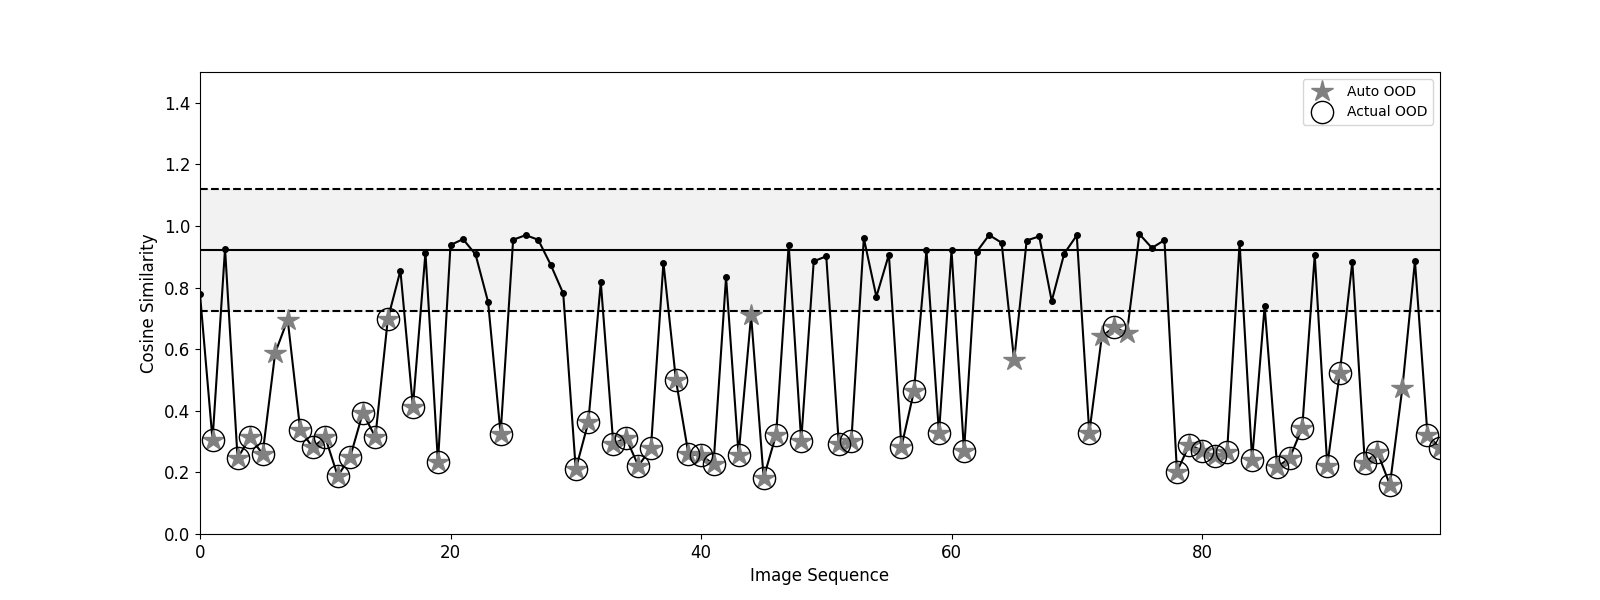
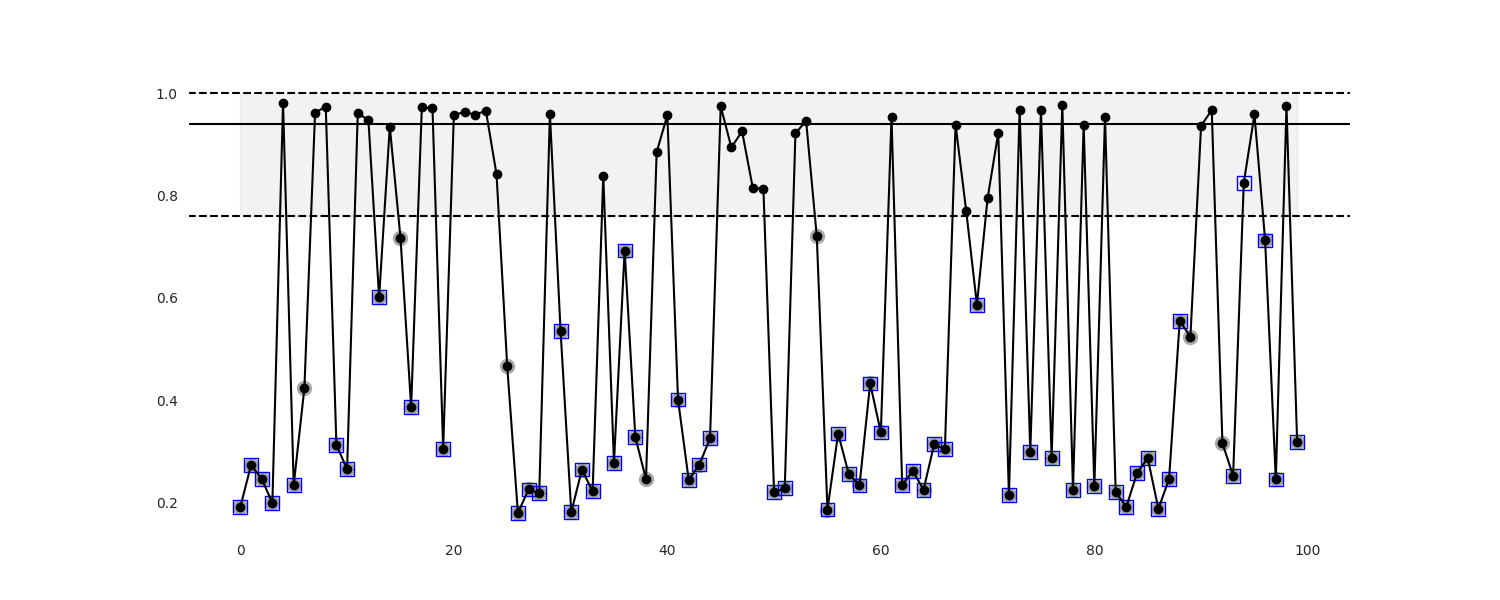
fixed feature extraction scripts; updated simulation

diff --git a/ood_detection.py b/ood_detection.py
@@ -12,41 +12,34 @@ from sklearn.metrics import confusion_matrix
 from scipy.linalg import pinv
 from tqdm import tqdm
 
+from utils import set_seed
+
 with open("cfg.json", "r") as f:
     cfg = json.load(f)
 
+# fancy metric name
+metrics = {
+    "cosine": "Cosine Similarity",
+    "mahalanobis": "Mahalanobis Distance"
+}
+
 """Apply SPC rules (per image)"""
-def apply_spc_rules(data, mean, std):
+def apply_spc_rules(data, mean, std, metric_name):
     """Detects SPC rule violations."""
-    violations = {"Rule 1": [], "Rule 2": [], "Rule 3": [], "Rule 4": [], "Rule 5": [], "Rule 6": []}
+    violations = {"Rule 1": []}
 
     for i in range(len(data)):
-        # Rule 1: Any single data point more than 3σ from the center line.
-        if abs(data[i] - mean) > 3 * std:
-            violations["Rule 1"].append(i)
-
-        """Not unit-tested implementations of SPC rules 2-6
-        # Rule 2 (adjusted): Nine points in a row on one side of the center line.
-        if i >= 8 and (all(d > mean for d in data[i-8:i+1]) or all(d < mean for d in data[i-8:i+1])):
-            violations["Rule 2"].extend(list(range(i-8, i+1)))
-
-        # Rule 3: Six (or more) points in a row, all increasing (or decreasing).
-        if i >= 5 and all(data[j] < data[j+1] for j in range(i-5, i)) or all(data[j] > data[j+1] for j in range(i-5, i)):
-            violations["Rule 3"].extend(list(range(i-5, i+1)))
-
-        # Rule 4: Fourteen (or more) points in a row, alternating up and down.
-        if i >= 13 and all((data[j] < data[j+1] and data[j+1] > data[j+2]) or
-                           (data[j] > data[j+1] and data[j+1] < data[j+2]) for j in range(i-13, i, 2)):
-            violations["Rule 4"].extend(list(range(i-13, i+1)))
-
-        # Rule 5: Two out of three points more than 2σ from the center line, same side.
-        if i >= 2 and sum(1 for j in range(i-2, i+1) if abs(data[j] - mean) > 2 * std) >= 2:
-            violations["Rule 5"].extend(list(range(i-2, i+1)))
-
-        # Rule 6: Four (or five) out of five points more than 1σ from the center line, same side.
-        if i >= 4 and sum(1 for j in range(i-4, i+1) if abs(data[j] - mean) > std) >= 4:
-            violations["Rule 6"].extend(list(range(i-4, i+1)))
-        """
+        # Rule 1: Any single data point more than 3σ in absolute distance from the center line.
+        # For cosine similarity: only check the lower bound
+        # For Mahalanobis distance: only check the upper bound 
+        if metric_name == "cosine":
+            if data[i] < (mean - 3 * std):
+                violations["Rule 1"].append(i)
+        elif metric_name == "mahalanobis":
+            if data[i] > (mean + 3 * std):
+                violations["Rule 1"].append(i)
+        else:
+            raise NotImplementedError(f"requested metric does not ahve Rule 1 implemented: {metric_name}")
 
     return violations
 
@@ -61,17 +54,32 @@ def ood_visualization(distances, mean, UCL, LCL, rule, ood_labels=None, metric_n
     plt.figure(figsize=(16, 6))
     plt.plot(distances, color='black', marker='o', markersize=4, linestyle='-')
     plt.axhline(y=mean, color='black', linestyle='-')
-    plt.axhline(y=UCL, color='black', linestyle='--')
-    plt.axhline(y=LCL, color='black', linestyle='--')
-    plt.fill_between(range(len(distances)), LCL, UCL, color='grey', alpha=0.1)
+    if metric_name == "cosine":
+        plt.axhline(y=np.clip(UCL, a_min=0.0, a_max=1.0), color='black', linestyle='--')
+        plt.axhline(y=np.clip(LCL, a_min=0.0, a_max=1.0), color='black', linestyle='--')
+        plt.fill_between(range(len(distances)), \
+                        np.clip(LCL, a_min=0.0, a_max=1.0), \
+                        np.clip(UCL, a_min=0.0, a_max=1.0), \
+                        color='grey', alpha=0.1)
+    else:
+        plt.axhline(y=UCL, color='black', linestyle='--')
+        plt.axhline(y=LCL, color='black', linestyle='--')
+        plt.fill_between(range(len(distances)), \
+                        LCL, \
+                        UCL, \
+                        color='grey', alpha=0.1)
 
-    plt.xlabel('Image Sequence', fontsize=12)
-    plt.ylabel(metric_name, fontsize=12)
-    plt.xticks(fontsize=12)
-    plt.yticks(fontsize=12)
+    # For presentation purposes, disable axes
+    # plt.xlabel('Image Sequence', fontsize=12)
+    # plt.ylabel(metrics[metric_name], fontsize=12)
+    # plt.xticks(fontsize=12)
+    # plt.yticks(fontsize=12)
+    
+    plt.xticks([])
+    plt.yticks([])
 
     # Assuming you have a function apply_spc_rules() which was not provided in your code
-    violations = apply_spc_rules(distances, mean, (UCL - mean) / 3)
+    violations = apply_spc_rules(distances, mean, (UCL - mean) / 3, metric_name)
 
     for idx in violations[rule]:
         plt.plot(idx, distances[idx], '*', color='grey', markersize=16, label='Auto OOD')
@@ -83,29 +91,29 @@ def ood_visualization(distances, mean, UCL, LCL, rule, ood_labels=None, metric_n
         """Compute confusion matirx"""
         cfm = make_confusion_matrix(violations[rule], ood_labels)
         tn, fp, fn, tp = cfm.ravel()
-        # Precision
-        if tp + fp == 0:
-            precision = np.nan
+        # Specificity
+        if tn + fp == 0:
+            specificity = np.nan
         else:
-            precision = tp / (tp + fp)
-        # Recall
+            specificity = tn / (tn + fp)
+        # Sensitivity
         if tp + fn == 0:
-            recall = np.nan
+            sensitivity = np.nan
         else:
-            recall = tp / (tp + fn)
+            sensitivity = tp / (tp + fn)
         # Acc
         acc = (tp + tn) / (tp + tn + fp + fn)
         # Print
-        print(f"Accuracy: {acc:.4f} | Precision: {precision:.4f} | Recall: {recall:.4f}")
+        print(f"Accuracy: {acc:.4f} | Specificity: {specificity:.4f} | Sensitivity: {sensitivity:.4f}")
 
     plt.xlim(0, len(distances) - 1)
-    if metric_name == "Cosine Similarity":
+    if metric_name == "cosine":
         plt.ylim(0, 1.5)
 
     # Ensure no duplicate labels in the legend
     handles, labels = plt.gca().get_legend_handles_labels()
     by_label = dict(zip(labels, handles))
-    plt.legend(by_label.values(), by_label.keys(), loc='upper right')
+    # plt.legend(by_label.values(), by_label.keys(), loc='upper right')
 
     plt.savefig(figure_path)
 
@@ -136,7 +144,7 @@ def compute_mahalanobis_distance(tr_features_, tt_features_):
     return distances
 
 """Compute control limits"""
-def compute_control_limits(tr_features, tt_features, ood_labels, metric):
+def compute_control_limits(tr_features, tt_features, metric):
     # Control similarities
     if metric == "cosine":
         train_distances = compute_cosine_similarity(tr_features, tr_features)
@@ -156,7 +164,7 @@ def compute_control_limits(tr_features, tt_features, ood_labels, metric):
     return train_distances, test_distances, train_mean, train_std, train_UCL, train_LCL
 
 """OOD statistics"""
-def ood_statistics(tr_features, tt_features, ood_labels, metric, n=1000, rule="Rule 1"):
+def ood_statistics(tr_features, tt_features, ood_labels, metric, n=100, rule="Rule 1"):
     # Precompute training similarities
     if metric == "cosine":
         fxn = compute_cosine_similarity
@@ -170,42 +178,44 @@ def ood_statistics(tr_features, tt_features, ood_labels, metric, n=1000, rule="R
     train_std = np.std(train_distances)
     # Bootstrap arrays
     accuracy = []
-    precision = []
-    recall = []
+    sensitivity = []
+    specificity = []
     # Bootstrap loop
-    random.seed(2022)
     for i in tqdm(range(n)):
         # Pick a subset of the testing images
-        indices = random.sample(list(range(tt_features.shape[0])), k=100)
-        tt_subset = tt_features[indices, :]
-        ood_labels_subset = ood_labels[indices]
+        sample = np.random.randint(low=0, high=tt_features.shape[0], size=500)
+        tt_subset = tt_features[sample, :]
+        ood_labels_subset = ood_labels[sample]
         # Calculate test similarities on subset
         tt_subset_distances = fxn(tr_features, tt_subset)
-        # Calculate OOD detection accuracy/precision/recall
-        violations = apply_spc_rules(tt_subset_distances, train_mean, train_std)
-        ood_preds_subset = [0 for _ in range(len(ood_labels_subset))]
+        # Calculate OOD detection accuracy/precision/sensitivity/specificity
+        violations = apply_spc_rules(tt_subset_distances, train_mean, train_std, metric)
+        ood_preds_subset = [0 for _ in range(len(tt_subset_distances))]
         for jj in violations[rule]:
             ood_preds_subset[jj] = 1
         cmatrix = confusion_matrix(ood_labels_subset, ood_preds_subset)
         tn, fp, fn, tp = cmatrix.ravel()
+        # Specificity
         try:
-            precision.append(tp / (tp + fp))
+            specificity.append(tn / (tn + fp))
         except RuntimeWarning:
-            precision.append(np.nan)
+            specificity.append(np.nan)
+        # Sensitivity
         try:
-            recall.append(tp / (tp + fn))
+            sensitivity.append(tp / (tp + fn))
         except RuntimeWarning:
-            recall.append(np.nan)
+            sensitivity.append(np.nan)
+        # Accuracy
         accuracy.append((tp + tn) / (tp + tn + fp + fn))
     # Report bootstrap results
     print(
         f"Accuracy: {np.mean(accuracy):.4f} [{(np.mean(accuracy) - np.std(accuracy)):.4f}, {(np.mean(accuracy) + np.std(accuracy)):.4f}]"
     )
     print(
-        f"Precision: {np.nanmean(precision):.4f} [{(np.nanmean(precision) - np.nanstd(precision)):.4f}, {(np.nanmean(precision) + np.nanstd(precision)):.4f}]"
+        f"Specificity: {np.nanmean(specificity):.4f} [{(np.nanmean(specificity) - np.nanstd(specificity)):.4f}, {(np.nanmean(specificity) + np.nanstd(specificity)):.4f}]"
     )
     print(
-        f"Recall: {np.nanmean(recall):.4f} [{(np.nanmean(recall) - np.nanstd(recall)):.4f}, {(np.nanmean(recall) + np.nanstd(recall)):.4f}]"
+        f"Sensitivity: {np.nanmean(sensitivity):.4f} [{(np.nanmean(sensitivity) - np.nanstd(sensitivity)):.4f}, {(np.nanmean(sensitivity) + np.nanstd(sensitivity)):.4f}]"
     )
 
 """Parse args"""
@@ -218,16 +228,9 @@ def parse_options():
     # extract
     opt = parser.parse_args()
 
-    # fancy metric name
-    metrics = {
-        "cosine": "Cosine Similarity",
-        "mahalanobis": "Mahalanobis Distance"
-    }
-
     # Make options dictionary
     options = {
         "metric": opt.metric,
-        "metric_fancy": metrics[opt.metric],
         "method": opt.method,
         "positive_dataset": "organamnist", # hard coded
         "data_dir": cfg["data_dir"]
@@ -240,13 +243,15 @@ def main():
     options = parse_options()
 
     # Load data from npz
-    D = np.load("./numpy_files/data_splits.npz")
+    data_splits_path = "./numpy_files/data_splits.npz"
+    D = np.load(data_splits_path)
     Xtr = D["Xtr"]
     ytr = D["ytr"]
     Xvl = D["Xvl"]
     yvl = D["yvl"]
     Xtt = D["Xtt"]
     ytt = D["ytt"]
+    print(f"Loaded data splits from: {data_splits_path} !")
 
     # Get features
     if options["method"] == "autoencoder":
@@ -271,17 +276,17 @@ def main():
     ood_statistics(Ftr_, Ftt, 1 - ytt, options["metric"], n=1000)
 
     # Plot OOD chart for one particular subset
-    random.seed(2021)
     ridx, num = random.randint(a=0, b=Ftt.shape[0]-101), 100
     Ftt_ = Ftt[ridx:(ridx+num)]
     ytt_ = ytt[ridx:(ridx+num)]
     # ood_labels_ assigns 1 to all OOD images and 0 to all ID images
     ood_labels_ = 1-ytt_
     train_distances, test_distances, train_mean, train_std, train_UCL, train_LCL = \
-        compute_control_limits(Ftr_, Ftt_, ood_labels_, options["metric"])
-    figure_pth = f"./figs/ood_{options['method']}_{options['metric']}.png"
+        compute_control_limits(Ftr_, Ftt_, options["metric"])
+    figure_pth = f"./figs-tmp/ood_{options['method']}_{options['metric']}.png"
     ood_visualization(test_distances, train_mean, train_UCL, train_LCL, \
-                      "Rule 1", ood_labels_, options["metric_fancy"], figure_pth)
+                      "Rule 1", ood_labels_, options["metric"], figure_pth)
 
 if __name__ == "__main__":
+    set_seed(2001)
     main()

diff --git a/get_features.py b/get_features.py
@@ -73,42 +73,36 @@ def main():
 
     # Autoencoder
     autoencoder_load = torch.load(opt.autoencoder_path)
-    autoencoder_model = load_model(autoencoder_load["options"])
+    autoencoder_model = load_model(autoencoder_load["options"], mode="testing")
     autoencoder_eval = load_eval(autoencoder_model, train_set, val_set, test_set)
-    autoencoder_train_fts = autoencoder_eval.get_features(train_set)
-    autoencoder_test_fts = autoencoder_eval.get_features(test_set)
     autoencoder_fts_path = os.path.join(cfg["data_dir"], "../numpy_files/autoencoder_features")
     np.savez(autoencoder_fts_path,
-        autoencoder_Ftr=autoencoder_train_fts,
-        autoencoder_Ftt=autoencoder_test_fts,
+        autoencoder_Ftr=autoencoder_eval.train_features,
+        autoencoder_Ftt=autoencoder_eval.test_features,
         autoencoder_pth=opt.autoencoder_path,
     )
     print(f"Saved autoencoder features at: {autoencoder_fts_path} !")
 
     # Supervised CNN
     cnn_load = torch.load(opt.cnn_path)
-    cnn_model = load_model(cnn_load["options"])
+    cnn_model = load_model(cnn_load["options"], mode="testing")
     cnn_eval = load_eval(cnn_model, train_set, val_set, test_set)
-    cnn_train_fts = cnn_eval.get_features(train_set)
-    cnn_test_fts = cnn_eval.get_features(test_set)
     cnn_fts_path = os.path.join(cfg["data_dir"], "../numpy_files/cnn_features")
     np.savez(cnn_fts_path,
-        cnn_Ftr=cnn_train_fts,
-        cnn_Ftt=cnn_test_fts,
+        cnn_Ftr=cnn_eval.train_features,
+        cnn_Ftt=cnn_eval.test_features,
         cnn_pth=opt.cnn_path,
     )
     print(f"Saved ood-supervised CNN features at: {cnn_fts_path} !")
 
     # Supervised Contrastive CNN
     ctr_load = torch.load(opt.ctr_path)
-    ctr_model = load_model(ctr_load["options"])
+    ctr_model = load_model(ctr_load["options"], mode="testing")
     ctr_eval = load_eval(ctr_model, train_set, val_set, test_set)
-    ctr_train_fts = ctr_eval.get_features(train_set)
-    ctr_test_fts = ctr_eval.get_features(test_set)
     ctr_fts_path = os.path.join(cfg["data_dir"], "../numpy_files/ctr_features")
     np.savez(ctr_fts_path,
-        ctr_Ftr=ctr_train_fts,
-        ctr_Ftt=ctr_test_fts,
+        ctr_Ftr=ctr_eval.train_features,
+        ctr_Ftt=ctr_eval.test_features,
         ctr_pth=opt.ctr_path,
     )
     print(f"Saved ood-supervised CTR features at: {ctr_fts_path} !")

diff --git a/feature_methods/ood_supervised_ctr.py b/feature_methods/ood_supervised_ctr.py
@@ -22,7 +22,7 @@ class OODSupervisedCTR(Model):
             head=self.options["projection"]
         )
         # GPU support
-        if self.options["device"] == "cuda":
+        if self.device == "cuda":
             # no parallelization
             model = model.cuda()
             cudnn.benchmark = True
@@ -111,14 +111,14 @@ class OODSupervisedCTR(Model):
 
 class OODSupervisedCTRFeatureSpace(FeatureSpace):
     def get_features(self, dset):
-        self.feature_model.eval()
+        self.feature_model.model.eval()
         features = []
         ldr = DataLoader(dset, batch_size=32, shuffle=False)
         for j, (images, labels) in enumerate(tqdm(ldr)):
             with torch.no_grad():
                 images = torch.cat([images, images, images], dim=1)
-                images = images.to(self.device)
-                outputs = self.feature_model.model.module.encoder(images)
+                images = images.to(self.feature_model.device)
+                outputs = self.feature_model.model.encoder(images)
                 norm_outputs = F.normalize(outputs)
                 features.append(norm_outputs.detach().cpu().numpy())
         return np.vstack(features)

diff --git a/feature_methods/__init__.py b/feature_methods/__init__.py
@@ -13,7 +13,7 @@ from .ood_supervised_ctr import OODSupervisedCTR
 from .ood_supervised_ctr import OODSupervisedCTRFeatureSpace
 
 
-def load_model(options: dict) -> Model:
+def load_model(options: dict, mode="training") -> Model:
     if options["method"] == ConvAutoEncoder._key():
         model = ConvAutoEncoder(options)
     elif options["method"] == OODSupervisedCNN._key():
@@ -22,6 +22,9 @@ def load_model(options: dict) -> Model:
         model = OODSupervisedCTR(options)
     else:
         raise NotImplementedError(f'requested model not implemented: {options["method"]}')
+    
+    if mode == "testing":
+        model.load(options["save_path"])
 
     return model
 

diff --git a/feature_methods/ood_supervised_cnn.py b/feature_methods/ood_supervised_cnn.py
@@ -121,7 +121,7 @@ class OODSupervisedCNN(Model):
 
 class OODSupervisedCNNFeatureSpace(FeatureSpace):
     def get_features(self, dset):
-        self.feature_model.eval()
+        self.feature_model.model.eval()
         features = []
         ldr = DataLoader(dset, batch_size=32, shuffle=False)
         for j, (images, labels) in enumerate(tqdm(ldr)):

diff --git a/train.py b/train.py
@@ -111,7 +111,7 @@ def main():
     feature_model.train_model(train_loader, val_loader)
 
     # done
-    print(f'==> Model name: {options["save"]} !')
+    print(f'==> Model name: {options["model_name"]} !')
     print(f'==> Model is saved at: {options["save_path"]} !')
 
 if __name__ == "__main__":
